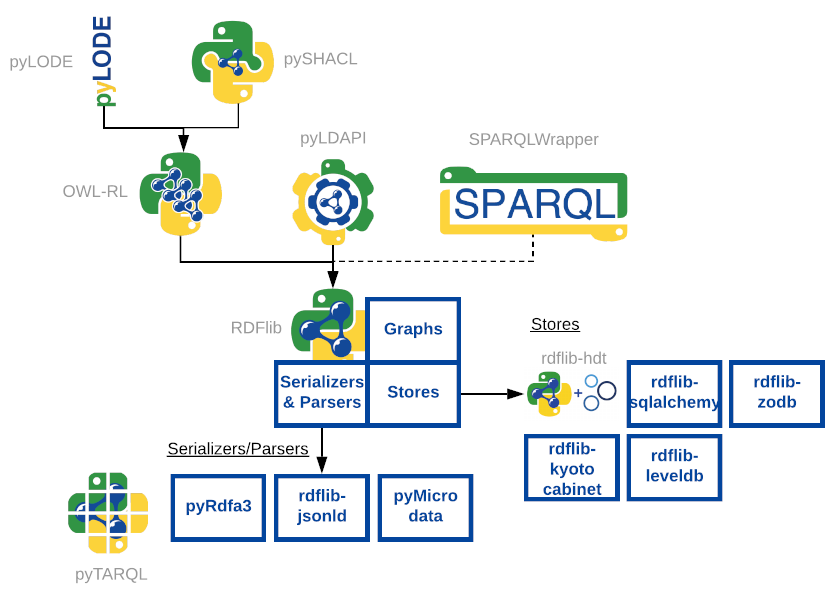
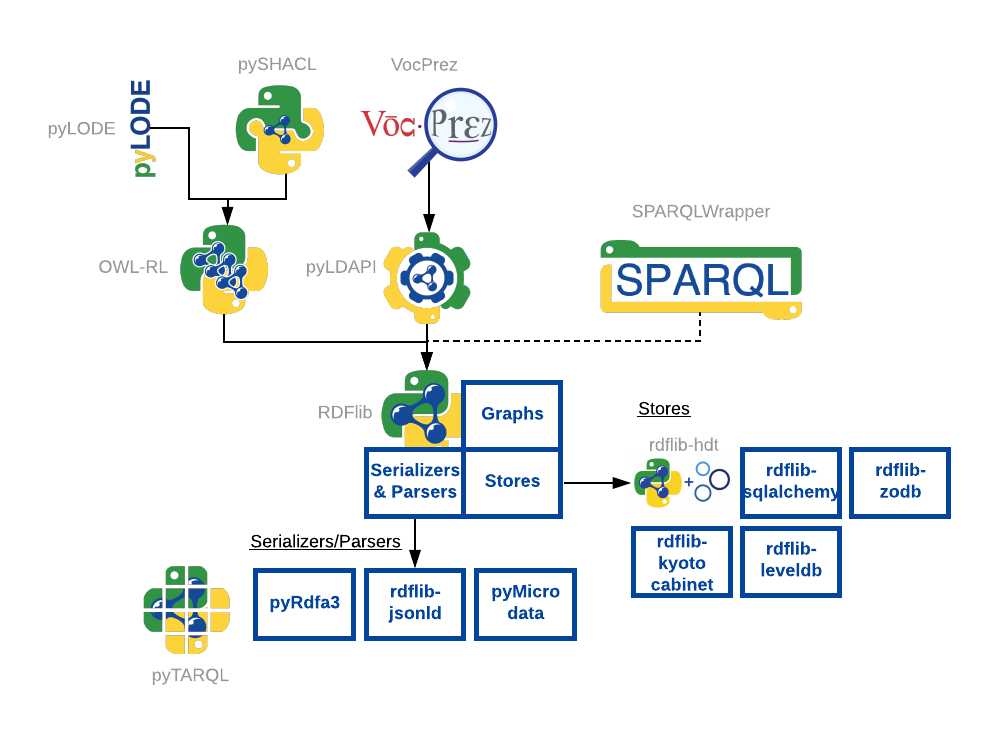
added VocPrez

Changed region(s): [[0.0, 0.0302, 0.9988, 0.9648], [0.5306, 0.2714, 0.8115, 0.4523], [0.5618, 0.2111, 0.7179, 0.2412]]

diff --git a/index.md b/index.md
@@ -49,6 +49,9 @@ operating packages are shown in Figure 1.
 * **Linked Data APIs**:
     * [pyLDAPI](https://github.com/RDFLib/pyLDAPI) - A very small module to add Linked Data API functionality to a Python Flask installation
 
+* **Derived tools**:  
+    * [VocPrez](https://github.com/RDFLib/VocPrez) - A tool (API and web front-end), based on pyLDAPI, for the read-only delivery system of SKOS vocabularies. 
+
 Please see the list of all packages here:
 
 * <https://github.com/RDFLib>
